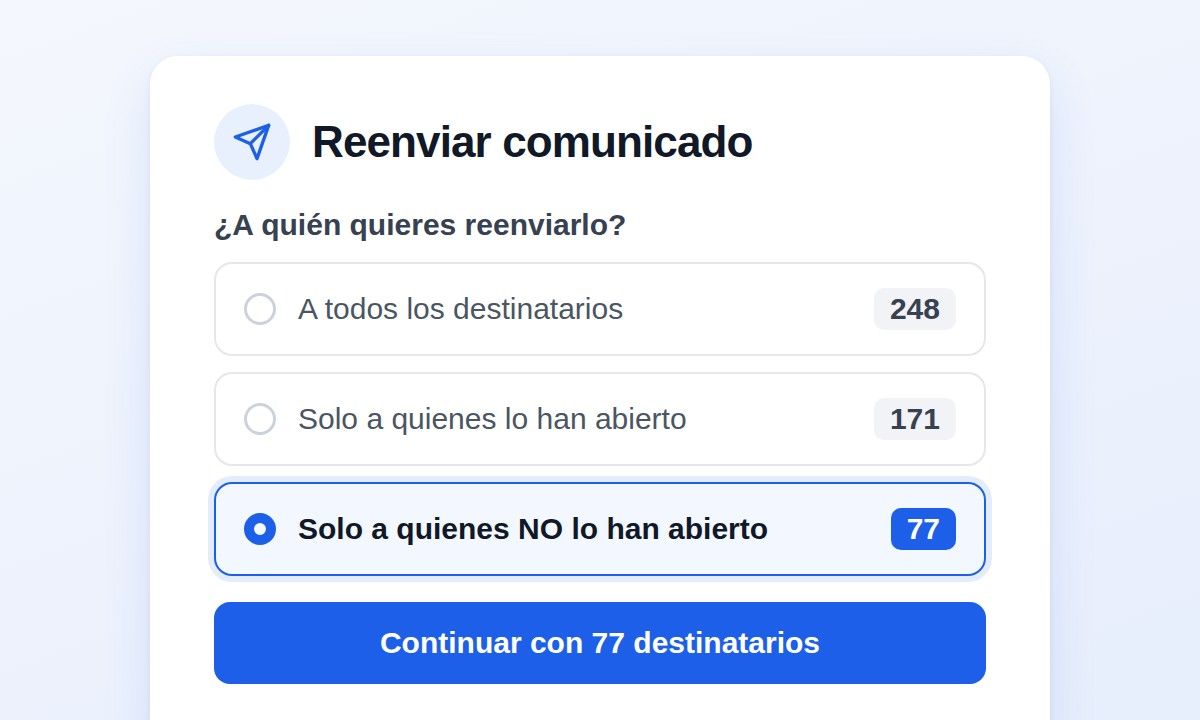
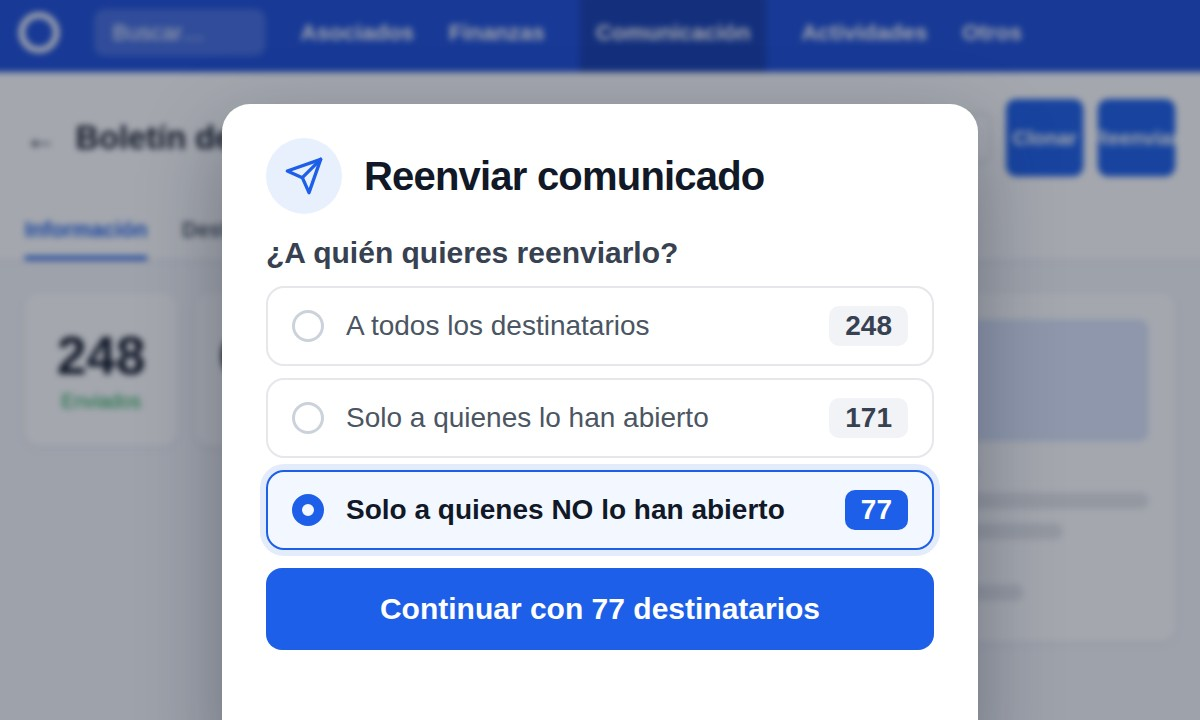
Imagen de reenviar: la pantalla del comunicado desenfocada detrás del modal
Claude-Session: https://claude.ai/code/session_01HuccnVzS7LeHVufVjVycyE

diff --git a/envios/img-jul-sep/fuentes/reenviar.html b/envios/img-jul-sep/fuentes/reenviar.html
@@ -1,15 +1,37 @@
 <html><head><link rel="stylesheet" href="base.css"><style>:root{--w:1200px;--h:720px}
-.m{position:absolute;left:150px;right:150px;top:56px;bottom:-40px;padding:48px 64px}
-.t{display:flex;align-items:center;gap:22px;font-size:44px;font-weight:700;letter-spacing:-.02em}
+.m{position:absolute;left:222px;right:222px;top:104px;bottom:-40px;padding:34px 44px}
+.t{display:flex;align-items:center;gap:22px;font-size:40px;font-weight:700;letter-spacing:-.02em}
 .b{width:76px;height:76px;border-radius:50%;background:var(--azul2);display:flex;align-items:center;justify-content:center}
-.q{margin:28px 0 20px;font-size:30px;font-weight:600;color:#374151}
-.o{display:flex;align-items:center;gap:22px;border:2px solid var(--linea);border-radius:18px;padding:24px 28px;font-size:30px;margin-bottom:16px;color:#4b5563}
+.q{margin:22px 0 16px;font-size:30px;font-weight:600;color:#374151}
+.o{display:flex;align-items:center;gap:22px;border:2px solid var(--linea);border-radius:18px;padding:18px 24px;font-size:28px;margin-bottom:12px;color:#4b5563}
 .o .n{margin-left:auto;background:#f1f3f7;border-radius:10px;padding:4px 16px;font-weight:700;color:#374151}
 .r{width:32px;height:32px;border-radius:50%;border:3px solid #cbd2dc;flex:none}
 .o.on{border-color:var(--azul);background:#f3f7ff;color:var(--ink);font-weight:600;box-shadow:0 0 0 6px rgba(29,95,232,.12)}
-.cta{margin-top:26px;background:var(--azul);color:#fff;font-size:30px;font-weight:600;text-align:center;padding:24px;border-radius:16px}
+.cta{margin-top:18px;background:var(--azul);color:#fff;font-size:30px;font-weight:600;text-align:center;padding:24px;border-radius:16px}
 .o.on .r{border:10px solid var(--azul)} .o.on .n{background:var(--azul);color:#fff}
+.bg{position:absolute;inset:0;background:#f5f7fb;filter:blur(3px);transform:scale(1.02)}
+.nav{height:78px;background:#1d4ed8;display:flex;align-items:center;gap:34px;padding:0 30px;color:#fff;font-size:22px;font-weight:600}
+.nav .lg{width:40px;height:40px;border-radius:50%;border:6px solid #fff}.nav .bs{background:rgba(255,255,255,.18);border-radius:10px;padding:10px 60px 10px 18px;font-weight:400}
+.nav .act{background:rgba(0,0,0,.18);padding:26px 16px}
+.hd{display:flex;align-items:center;gap:14px;padding:26px 36px;background:#fff}.hd .ti{font-size:32px;font-weight:700;margin-right:auto}
+.bt{font-size:20px;font-weight:600;padding:12px 20px;border-radius:10px}.bt.g{border:2px solid #e5e7eb}.bt.b{background:#1d5fe8;color:#fff}
+.tabs{display:flex;gap:34px;padding:0 36px;background:#fff;border-bottom:2px solid #e5e7eb;font-size:21px;font-weight:600;color:#4b5563}.tabs span{padding:14px 0}.tabs .on{color:#1d5fe8;border-bottom:4px solid #1d5fe8}
+.cuerpo{display:flex;gap:30px;padding:30px 36px}
+.stats{display:flex;gap:18px}.stats div{width:150px;height:150px;background:#fff;border-radius:14px;display:flex;flex-direction:column;align-items:center;justify-content:center;box-shadow:0 2px 6px rgba(0,0,0,.06)}
+.stats b{font-size:52px}.stats i{font-style:normal;font-size:19px;margin-top:4px}
+.prev{flex:1;background:#fff;border-radius:14px;padding:26px;box-shadow:0 2px 6px rgba(0,0,0,.06)}.prev .pb{height:120px;background:#dbe6fb;border-radius:10px;margin-bottom:20px}.prev .l{height:16px;background:#e5e7eb;border-radius:8px;margin-bottom:14px}
+.velo{position:absolute;inset:0;background:rgba(15,23,42,.38)}
+.m{box-shadow:0 30px 80px rgba(15,23,42,.35)!important}
 </style></head><body>
+<div class="bg">
+ <div class="nav"><span class="lg"></span><span class="bs">Buscar…</span><span>Asociados</span><span>Finanzas</span><span class="act">Comunicación</span><span>Actividades</span><span>Otros</span></div>
+ <div class="hd"><span class="ti">←&nbsp; Boletín de septiembre</span><span class="bt g">Imprimir PDF</span><span class="bt b">Clonar</span><span class="bt b">Reenviar</span></div>
+ <div class="tabs"><span class="on">Información</span><span>Destinatarios (248)</span></div>
+ <div class="cuerpo">
+  <div class="stats"><div><b>248</b><i style="color:#16a34a">Enviados</i></div><div><b>69%</b><i>Abiertos</i></div><div><b>2</b><i style="color:#dc2626">Rebotados</i></div></div>
+  <div class="prev"><div class="pb"></div><div class="l" style="width:70%"></div><div class="l"></div><div class="l" style="width:85%"></div><div class="l" style="width:60%"></div><div class="l" style="width:78%"></div></div>
+ </div>
+</div><div class="velo"></div>
 <div class="card m">
  <div class="t"><span class="b"><svg class="ico" width="40" height="40" viewBox="0 0 24 24" fill="none" stroke="#1d5fe8" stroke-width="2" stroke-linecap="round" stroke-linejoin="round"><path d="m22 2-7 20-4-9-9-4Z"/><path d="M22 2 11 13"/></svg></span>Reenviar comunicado</div>
  <div class="q">¿A quién quieres reenviarlo?</div>
